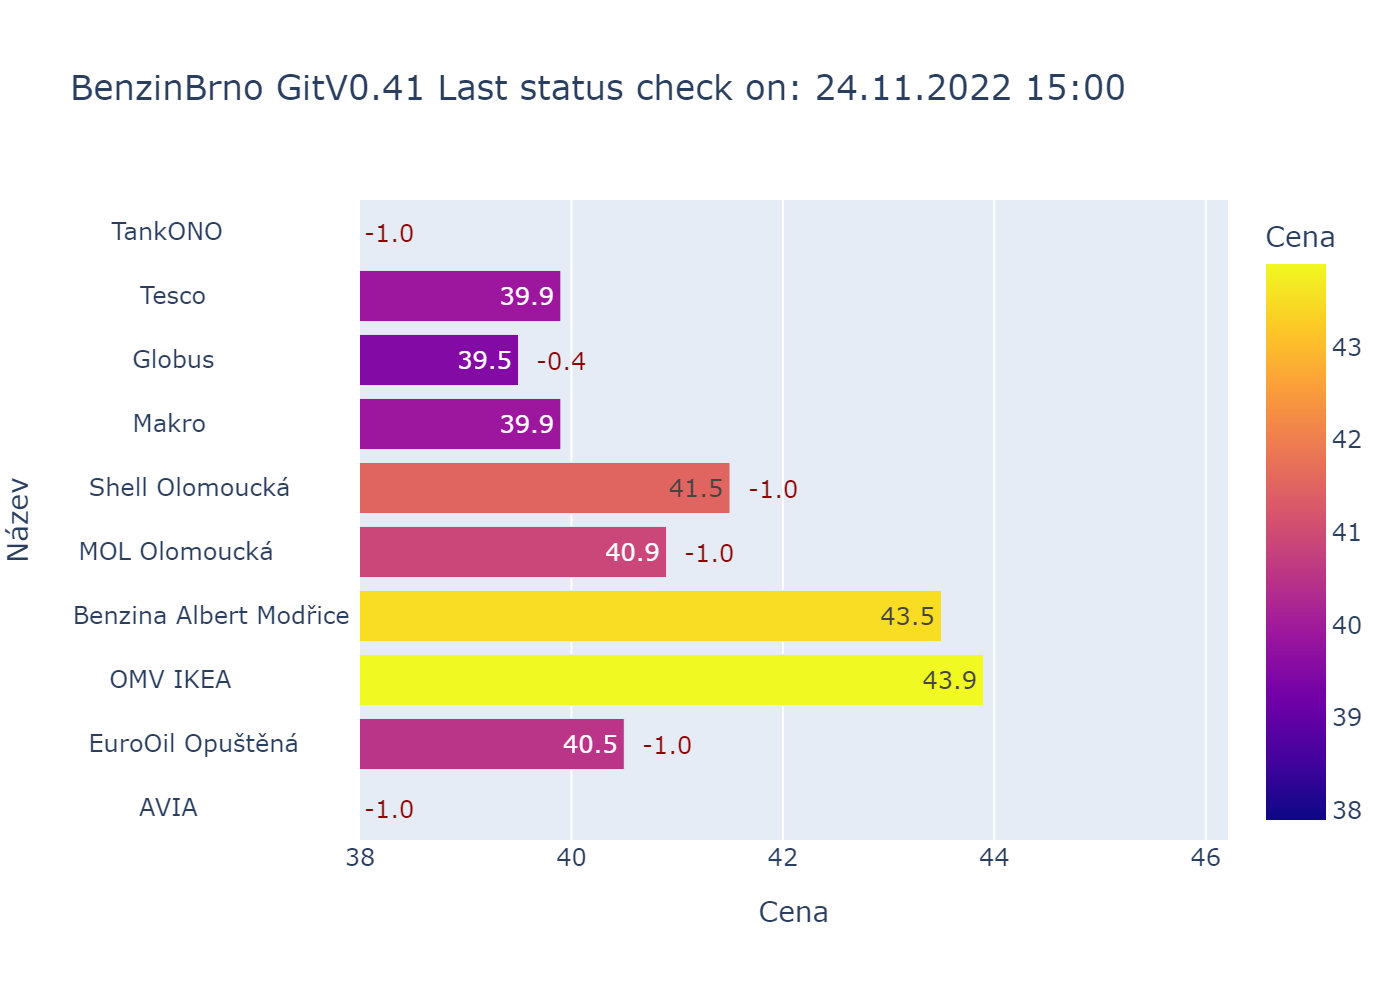
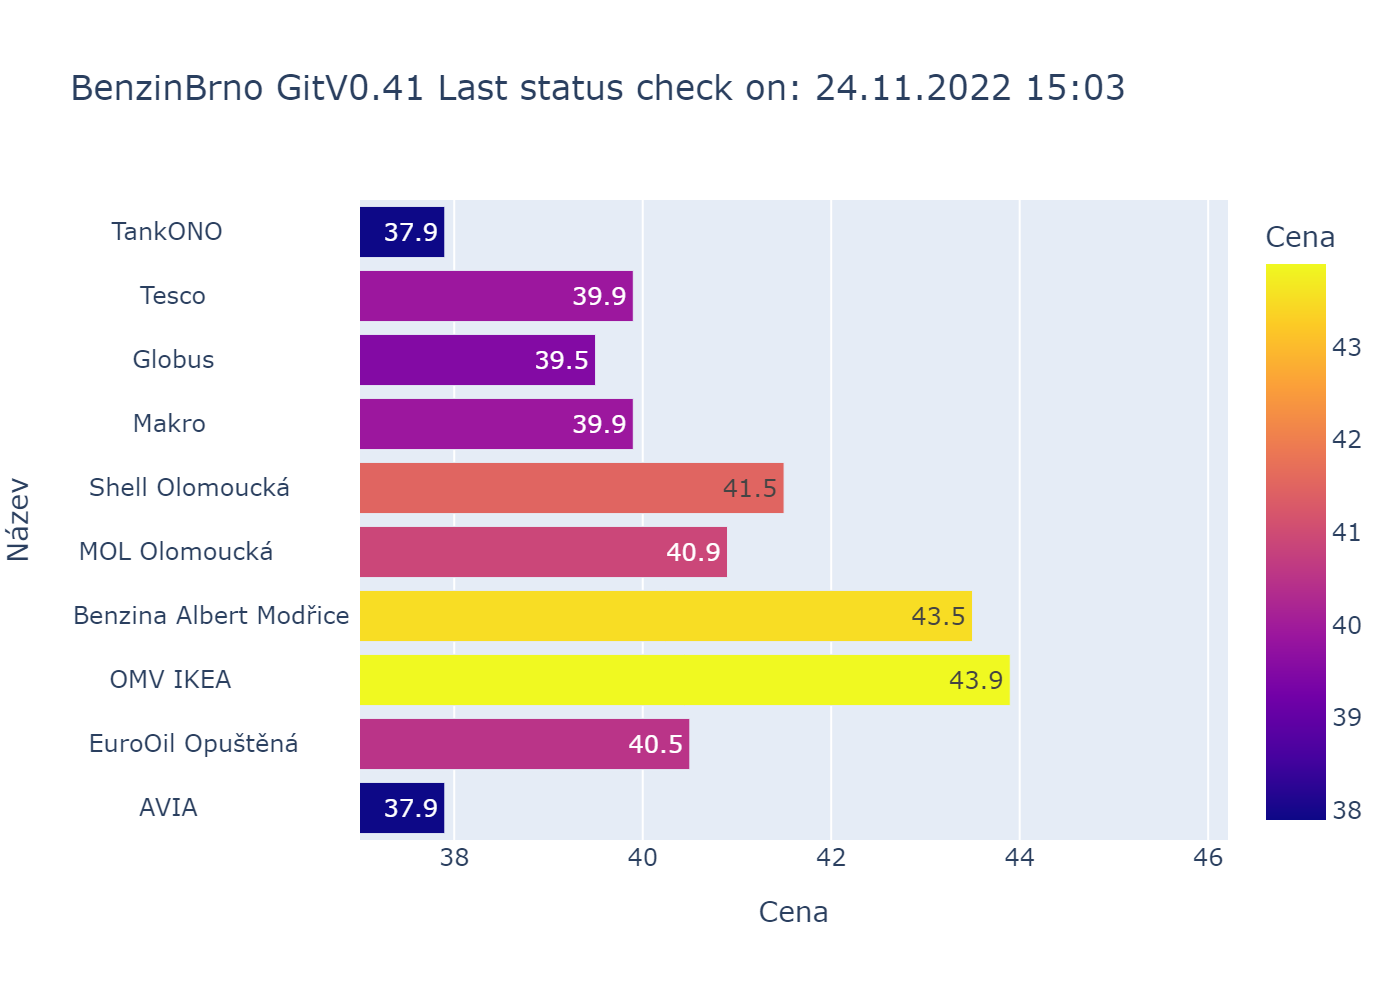
Win cmd line

diff --git a/bbCFG.py b/bbCFG.py
@@ -32,7 +32,7 @@ bbDateLog = "%d.%m.%Y--%H:%M"  # format casu
 # Formatovani Ceny (float) - Cena = '{:.2f}'.format(item)
 bbCenaMsk = '{:.2f}'  # format na 2 desetinna mista
 # Graf
-bbCenaMin = 38  # dolni mez ceny na ose X v grafu
+bbCenaMin = 37  # dolni mez ceny na ose X v grafu
 
 # brint - my print, pomoci *ssAll
 def brint(*ssAll):
